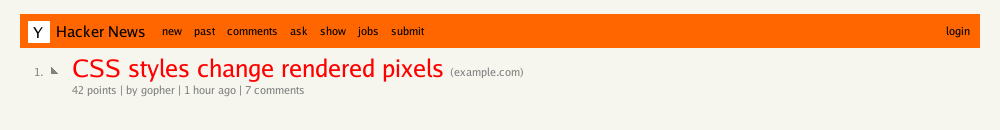
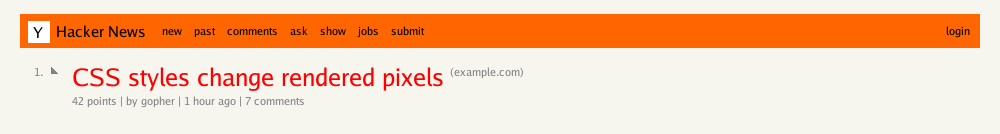
Add regression coverage for CSS row sizing

diff --git a/gobrowser_test.go b/gobrowser_test.go
@@ -173,15 +173,20 @@ func TestRenderPNGAppliesCSSPixels(t *testing.T) {
 }
 
 func TestRenderPNGLargeTitleDoesNotOverlapMetadataOrNextStory(t *testing.T) {
-	stories := []Story{
-		{
-			Rank:  "1",
-			Title: "A large styled story title",
-			Score: "42 points",
-			Style: textStyle{color: color.RGBA{R: 255, A: 255}, hasColor: true, fontSize: maxTitleFontSize},
-		},
-		{Rank: "2", Title: "A following story"},
+	page, err := os.ReadFile("testdata/hackernews-css.html")
+	if err != nil {
+		t.Fatal(err)
 	}
+	page = []byte(strings.Replace(string(page), "font-size: 24px", "font-size: 64px", 1))
+	stories, err := parseStories(page)
+	if err != nil {
+		t.Fatal(err)
+	}
+	stories[0].Domain = ""
+	if got := stories[0].Style.fontSize; got != maxTitleFontSize {
+		t.Fatalf("parsed title font size = %v, want %v", got, maxTitleFontSize)
+	}
+	stories = append(stories, Story{Rank: "2", Title: "A following story"})
 
 	firstStoryImage := renderStoriesForTest(t, stories[:1])
 	rendered := renderStoriesForTest(t, stories)
